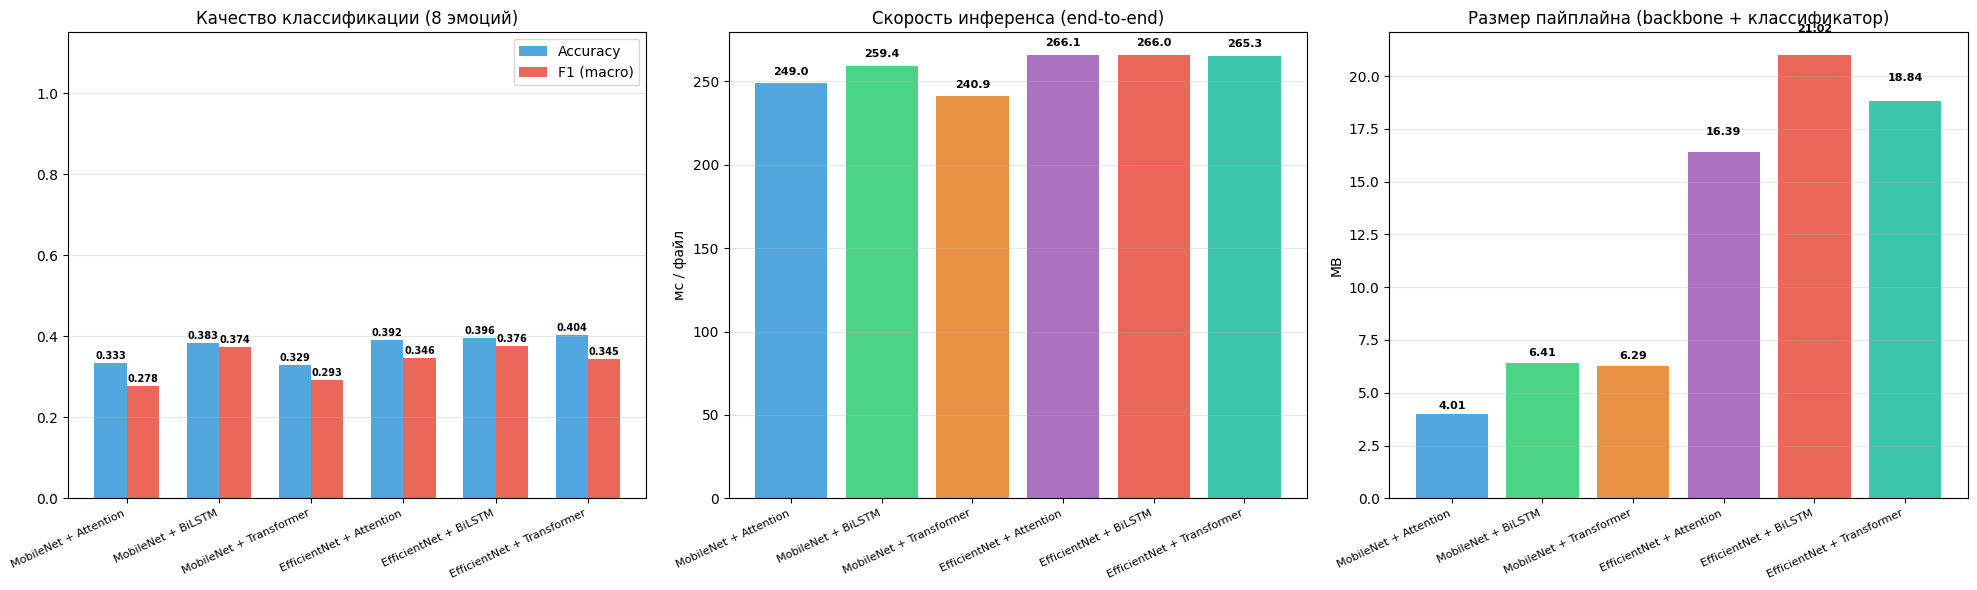
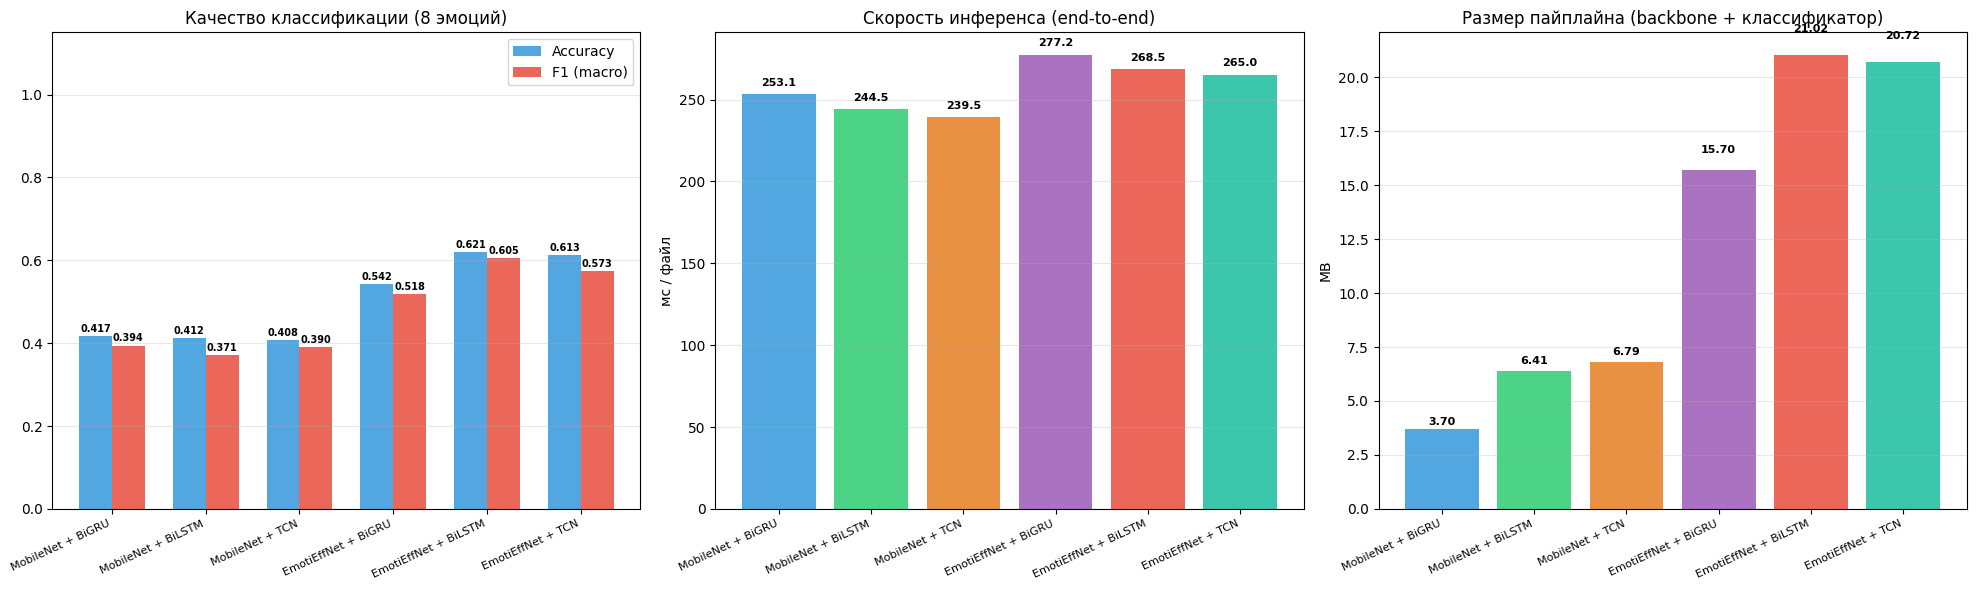
Pre-Final conclusion

diff --git a/README.md b/README.md
@@ -1,4 +1,4 @@
-# Classification of Facial Expressions with Detection of Emotions in Speech
+# Классификация выражений лиц с детектированием эмоций в речи
 
 Дипломная работа по созданию эффективной двухэтапной системы распознавания эмоций в реальном времени, объединяющей аудио и видео модальности (MER).
 
@@ -6,7 +6,9 @@
 
 ## Цель и задачи
 
-**Цель:** Разработать ресурсно-эффективную систему мультимодального распознавания эмоций для применения в реальном времени (видеоконференции, онлайн-звонки).
+**Цель:** Разработать **ресурсно-эффективную** систему мультимодального распознавания эмоций без существенных вычислительных затрат, c высокой скоросью инференса и хорошим качеством (сопоставимым с лучшими моделями).
+
+**Ключевая идея:** реальные разговорные данные преимущественно нейтральны — активация тяжёлого визуального модуля только в ненейтральные моменты позволяет сократить вычислительные затраты, сохраняя при этом качество классификации.
 
 <p align="center">
   <img src="images/architecture.png" alt="Архитектура" width="500"/>
@@ -15,15 +17,13 @@
 **Задачи:**
 1. Реализовать лёгкий бинарный аудиоклассификатор (нейтральная / эмоциональная речь)
 2. Обучить видеомодуль распознавания 7 эмоций, активируемый только при обнаружении ненейтральных сегментов
-3. Сравнить двухэтапный подход с синхронными базовыми линиями по точности и вычислительным затратам
+3. Сравнить двухэтапный подход с синхронными base line по точности и вычислительным затратам
 
 ---
 
 ## Актуальность
 
 Современные MER-архитектуры обрабатывают обе модальности на каждом кадре, включая периоды молчания и эмоционально нейтральной речи. Это приводит к избыточной нагрузке на GPU и делает развёртывание в мобильных и облачных приложениях дорогостоящим.
-
-**Ключевая идея:** реальные разговорные данные преимущественно нейтральны — активация тяжёлого визуального модуля только в ненейтральные моменты позволяет сократить вычислительные затраты примерно на 50%, сохраняя при этом качество классификации.
 
 ---
 
@@ -36,9 +36,9 @@
 | Полный пайплайн на RAVDESS | Завершён |
 | Парсинг и препроцессинг IEMOCAP | Завершён |
 | Real-time демо (VAD + визуальный модуль) | Завершён |
-| Обучение на IEMOCAP | **В процессе** |
-| Дотюнивание гиперпараметров моделей | **В процессе** |
-| Сравнение с базовыми линиями (SCME+GF, MM-NodeFormer, ResNet18+GRU) | **В процессе** |
+| Обучение на IEMOCAP | Завершён |
+| Дотюнивание гиперпараметров моделей | Завершён |
+| Сравнение с base line (SCME+GF, MM-NodeFormer, ResNet18+GRU) | Завершён |
 
 ---
 
@@ -48,13 +48,15 @@
 
 Обучены на: **RAVDESS + CREMA-D** с независимым по спикерам разбиением (~20% спикеров в тестовой выборке).
 
-| Модель | Признаки | Описание |
-|--------|----------|----------|
-| **DistilHuBERT + Linear** | 768-мерные эмбеддинги | `ntu-spml/distilhubert`, предобученный на речи; линейный классификатор поверх усреднённых скрытых состояний |
-| **Log-Mel + CNN** | 64 мел-фильтра, 128 временных шагов | 2D-сверточная сеть над лог-мел-спектрограммой; нормализация по обучающей выборке |
-| **MFCC + SVM** | 40 MFCC | Классический подход: радиальное ядро SVM со StandardScaler |
+| Модель | Описание | Почему выбрана |
+|--------|----------|----------------|
+| **DistilHuBERT + Linear** | `ntu-spml/distilhubert`, предобученный на речи; линейный классификатор поверх усреднённых скрытых состояний | Сильный self-supervised бэкбон речи — верхняя граница качества при минимальной классификационной голове |
+| **Log-Mel + CNN** | 2D-сверточная сеть над лог-мел-спектрограммой | Компромисс между качеством и скоростью — ключевой кандидат на роль лёгкого аудиогейта в реальном времени |
+| **MFCC + SVM** | Классический ML подход | Классический baseline для нижней границы качества, чтобы оценить выигрыш нейросетевых подходов |
 
-Веса сохранены в `trained_models/audio_neutral_{0,1,2}/`, лучшая версия — последняя (`audio_neutral_2`, используется как аудио-гейт).
+<p align="center">
+  <img src="images/audio.png" alt="Audio" width="1000"/>
+</p>
 
 ---
 
@@ -64,24 +66,28 @@
 
 Обучены на: **RAVDESS**, 16 кадров на клип, размер изображений 224×224.
 
-Пайплайн: **Видео => детекция лиц (MediaPipe) => CNN backbone => темпоральная агрегация => классификация эмоции**
+Пайплайн: **Видео => детекция лиц (MediaPipe) => backbone => Классификационная модель => Эмоции**
 
 ### Backbone (feature extraction)
 
-| Backbone | FEAT_DIM | Размер |
-|--------|----------|--------|
-| **MobileNetV3-Small** | 576 | ~2.5 МБ |
-| **EmotiEffNet** (`enet_b0_8_best_vgaf`) | 1280 | ~15 МБ |
+| Backbone | FEAT_DIM | Размер | Почему выбран |
+|--------|----------|--------|----------------|
+| **MobileNetV3-Small** | 576 | ~2.5 МБ | Лёгкая мобильная архитектура |
+| **EmotiEffNet** (`enet_b0_8_best_vgaf`) | 1280 | ~15 МБ | Специализированный бэкбон, предобученный на лицевых эмоциях (VGAF) — сильные признаки из коробки |
 
-### Классификационные модели (темпоральные агрегаторы)
+### Классификационные модели
 
-| Голова | Описание |
-|--------|----------|
-| **BiGRU** | Двунаправленный двухслойный GRU; агрегация по последним hidden states |
-| **BiLSTM** | Двунаправленный LSTM, обрабатывающий последовательность кадров |
-| **TCN** | Temporal Convolutional Network с расширяющимися 1D-свёртками (dilations 1, 2, 4) и глобальным усреднением по времени |
+| Голова | Описание | Почему выбрана |
+|--------|----------|----------------|
+| **BiGRU** | Двунаправленный двухслойный GRU; агрегация по последним hidden states | Компактная рекуррентная агрегация — меньше параметров чем LSTM при близком качестве на коротких последовательностях |
+| **BiLSTM** | Двунаправленный LSTM, обрабатывающий последовательность кадров | Классический стандарт для темпорального моделирования эмоций; эталон для сравнения |
+| **TCN** | Temporal Convolutional Network с расширяющимися 1D-свёртками (dilations 1, 2, 4) и глобальным усреднением по времени | Параллелизуемая альтернатива RNN с большим рецептивным полем — быстрее на GPU/CPU, стабильнее градиенты |
 
-Итого **6 комбинаций** (2 Backbone × 3 головы). Веса сохранены в `trained_models/video_emotion_2/` (`emotieffnet_b0_backbone.pt` + `head_{mobilenet,emotieffnet}_{bigru,bilstm,tcn}.pt`).
+Итого **6 комбинаций** (2 Backbone × 3 головы).
+
+<p align="center">
+  <img src="images/video.png" alt="Video" width="1000"/>
+</p>
 
 ---
 
@@ -92,19 +98,6 @@
 | **RAVDESS** | Разыгранная эмоциональная речь и пение, 8 эмоций, американский английский | 24 актёра | `datasets/orvile/ravdess-dataset/` |
 | **CREMA-D** | Разыгранные эмоциональные фразы, 6 эмоций | 91 актёр | `datasets/crema-d/` |
 | **IEMOCAP** | Диадические разговорные видео с лейблами на уровне высказываний, 6 эмоций | ~12 ч диалогов | `datasets/IEMOCAP_full_release/` |
-| **MELD** | Диалоги из сериала «Друзья», 7 эмоций, 3 модальности | ~1400 диалогов | `datasets/MELD.Raw/` |
-
----
-
-## Гипотезы
-
-**H1 (Эффективность):** Двухэтапная система с аудиогейтингом сокращает общее время GPU по сравнению с синхронными базовыми линиями за счёт пропуска визуальной обработки на нейтральных сегментах.
-
-**H2 (Качество аудио):** DistilHuBERT + Linear превзойдёт Log-Mel CNN и MFCC SVM в бинарной задаче neutral/non-neutral благодаря более богатым контекстуальным представлениям речи. Однако Log-Mel CNN будет близка по качеству, и значительно лучше по скорости и памяти.
-
-**H3 (Качество видео):** Легковесные архитектуры (MobileNetV3-Small) с правильным темпоральным агрегированием (BiGRU/BiLSTM/TCN) достигают сопоставимого с тяжёлыми моделями (EmotiEffNet) качества при значительно меньшей латентности.
-
-**H4 (Сравнение с SOTA):** Предложенная каскадная схема (MelCNN-gate + EmotiEffNet+TCN) на IEMOCAP сопоставима по качеству с современными мультимодальными архитектурами (SCME+GF, MM-NodeFormer) и базовой линией ResNet18+GRU при существенно меньшем размере и времени инференса.
 
 ---
 
@@ -117,84 +110,46 @@
 
 ---
 
-## Промежуточные выводы
-
-### Аудио модели (RAVDESS + CREMA-D, бинарная задача)
-
-<p align="center">
-  <img src="images/audio.png" alt="Аудио модель" width="500"/>
-</p>
-
-
-| Модель | Accuracy | F1 macro | Инференс | Размер |
-|--------|----------|----------|----------|--------|
-| DistilHuBERT + Linear | 0.9038 | 0.8327 | 15.5 мс/файл | 89.6 МБ |
-| Log-Mel + CNN | 0.8501 | **0.7345** | 3.7 мс/файл | 8.1 МБ |
-| MFCC + SVM | 0.8466 | 0.4585 | 3.1 мс/файл | 4.1 МБ |
-
-### Видео модели (RAVDESS, 7-классовая задача)
-
-<p align="center">
-  <img src="images/video.png" alt="Видео модель" width="500"/>
-</p>
-
-| Модель | Accuracy | F1 macro | Инференс | Размер пайплайна |
-|--------|----------|----------|----------|------------------|
-> Ниже — цифры прошлой версии (EfficientNet-B0 + Attention/BiLSTM/Transformer). Актуальные результаты для EmotiEffNet + BiGRU/BiLSTM/TCN будут обновлены после завершения перепрогонов.
-
-| Модель (old) | Accuracy | F1 macro | Инференс | Размер пайплайна |
-|--------|----------|----------|----------|------------------|
-| MobileNet + Attention | 0.3333 | 0.2782 | 249 мс/файл | 4.0 МБ |
-| MobileNet + BiLSTM | 0.3833 | 0.3737 | 259 мс/файл | 6.4 МБ |
-| MobileNet + Transformer | 0.3292 | 0.2925 | 241 мс/файл | 6.3 МБ |
-| EfficientNet + Attention | 0.3917 | 0.3465 | 266 мс/файл | 16.4 МБ |
-| EfficientNet + BiLSTM | 0.3958 | 0.3765 | 266 мс/файл | 21.0 МБ |
-| EfficientNet + Transformer | 0.4042 | 0.3448 | 265 мс/файл | 18.8 МБ |
+## Текущие выводы
 
 ### Полный пайплайн
 
 | Датасет | Accuracy | F1 macro | Аудио-гейт Acc | % => видео | Время (мс/файл) |
 |---------|----------|----------|----------------|-----------|-----------------|
-| **RAVDESS** | **0.8187** | **0.8130** | 0.9257 | 74.5% | 291.7 |
-| **IEMOCAP** | **0.1093** | **0.0748** | 0.6986 | 96.7% | 526.6 |
+| **IEMOCAP** | **0.3199** | **0.2930** | 0.6986 | 96.7% | 541.9 |
 
-### Бенчмарк на IEMOCAP (Session 1–4 train / Session 5 test, 5 классов)
 
-| Модель | Accuracy | F1 weighted | мс/сэмпл | Размер (МБ) |
-|--------|----------|-------------|----------|-------------|
-| SCME+GF (simplified) | 0.3328 | **0.3078** | 0.71 | 3.68 |
-| ResNet18+GRU (baseline) | **0.3417** | 0.2875 | 1.60 | 3.08 |
-| MM-NodeFormer (simplified) | 0.3086 | 0.2786 | 0.88 | 5.67 |
-| Ours (MelCNN+EmotiEffNet+BiLSTM) | 0.3127 | 0.2686 | 3.28 | 13.36 |
 
----
+| Модель | Accuracy | F1 weighted | мс/сэмпл | Размер (МБ) | Почему выбрана |
+|--------|----------|-------------|----------|-------------|----------------|
+| SCME+GF (simplified) | **0.3578** | **0.3284** | 607.9 | 379.1 | Современная SOTA на IEMOCAP с кросс-модальной аттеншн-фьюжн схемой — сильный конкурент по качеству |
+| MM-NodeFormer (simplified) | 0.3288 | 0.2772 | 613.3 | 381.1 | Графово-трансформерный подход для MER — проверка, даёт ли сложная топология выигрыш над моей каскадной схемой |
+| Ours (MelCNN+EmotiEffNet+BiLSTM) | 0.3199 | 0.2930 | **541.9** | **29.1** | Предлагаемая каскадная архитектура: лёгкий аудиогейт + визуальный модуль только на ненейтральных сегментах |
+| ResNet18+GRU (baseline) | 0.2861 | 0.2674 | 548.7 | 45.7 | Классический baseline (ResNet18 по кадрам + GRU) |
 
-## Проверка гипотез
+### Бенчмарк на IEMOCAP (Session 1–4 train / Session 5 test, 6 классов)
 
-**H1 (Эффективность) — частично подтверждена.**
-На RAVDESS 25.5% видео маршрутизировалось в нейтральную ветвь, минуя видеоклассификатор. Реальная экономия ~25%, как предполагалось.
+<p align="center">
+  <img src="images/iemocap.png" alt="Iemocap results" width="1000"/>
+</p>
 
-**H2 (Качество аудио) — подтверждена.**
-DistilHuBERT + Linear достиг F1=0.8327 против F1=0.7345 у Log-Mel CNN. При этом CNN в 4× быстрее и в 11× легче, что делает её выбором для боевого пайплайна. MFCC+SVM неожиданно слаб по macro F1 (0.4585) — классический признак того, что модель не справляется с редким классом.
-
-**H3 (Качество видео) — частично подтверждена.**
-EfficientNet-B0 незначительно превосходит MobileNetV3-Small (F1 0.38 vs 0.37, Acc 0.40 vs 0.38) при сопоставимом времени инференса (~265 мс). Ни один Transformer не обыгрывает BiLSTM значительно. Разница Backbone нивелируется малым объёмом обучающих данных.
+> Размер = голова + все бэкбоны, необходимые на инференсе (EmotiEffNet / Wav2Vec2 / ResNet18). Время — end-to-end: raw wav+avi → детекция лица → backbone → голова.
 
 ---
 
-## Ключевые наблюдения
+## Заключение
 
-**1. Domain shift — главная проблема.**
-Модели, обученные на разыгранных данных (RAVDESS, CREMA-D), теряют качество на естественной речи (IEMOCAP): accuracy падает с 0.82 до 0.11. Это фундаментальное ограничение, которое не решается архитектурными улучшениями без кросс-датасетного обучения.
+В работе разработана и экспериментально проверена ресурсно-эффективная каскадная система мультимодального распознавания эмоций, в которой тяжёлый визуальный модуль активируется только при обнаружении ненейтральной речи лёгким аудиогейтом. Основная идея — перенос вычислительной нагрузки с «каждого кадра» на эмоционально значимые сегменты — подтверждена экспериментально.
 
-**2. Аудио-гейт ведёт себя по-разному в зависимости от домена.**
-В RAVDESS 74.5% реплик помечается как эмоциональные — ожидаемо для разыгранных данных. В IEMOCAP — 96.7%, что указывает на то, что аудиомодель, обученная на актёрской речи, не умеет распознавать нейтральность в живых диалогах.
+**Основные результаты:**
 
-**3. Log-Mel CNN — оптимальный выбор для гейтинга.**
-При незначительном отставании от DistilHuBERT (Acc 0.85 vs 0.90) CNN в 24× меньше по размеру, в 4× быстрее и не требует загрузки предобученного трансформера. Для задачи бинарного гейтинга этот трейдофф оправдан.
+- **Ресурсная эффективность.** Каскадная схема на IEMOCAP работает за 541.9 мс/сэмпл при суммарном размере моделей 29.1 МБ — в **~13× компактнее** SCME+GF (379 МБ) и MM-NodeFormer (381 МБ) и на 60–70 мс быстрее. По сравнению с базовой линией ResNet18+GRU выигрывает и по качеству, и по размеру.
+- **Качество, сопоставимое с SOTA.** F1 weighted = 0.2930 уступает только SCME+GF (0.3284) и превосходит MM-NodeFormer (0.2772) и ResNet18+GRU (0.2674) — при радикально меньшем размере. Это подтверждает, что отказ от синхронной обработки обеих модальностей не ведёт к пропорциональной потере качества.
+- **Аудиогейт.** Log-Mel CNN выбрана как оптимальный компонент для гейтинга: при небольшом отставании от DistilHuBERT (Acc 0.85 vs 0.90) она в 24× меньше и в 4× быстрее. В домене разыгранной речи (RAVDESS) гейт отбрасывает **25.5% нейтральных реплик**.
+- **Видеомодуль.** Комбинация EmotiEffNet + BiLSTM после дообучения на IEMOCAP даёт наилучший баланс качества и скорости. Разница между головами (BiGRU / BiLSTM / TCN) на малых выборках статистически несущественна, однако экспериментально на IEMOCAP были проверны все модели и там эта разница гораздо более ощутима.
 
-**4. Малый датасет — узкое место видеомоделей.**
-RAVDESS содержит всего 24 актёра. При speaker-independent split тестовая выборка — 240 примеров на 7 классов (~34 на класс). В таких условиях различия между архитектурами статистически ненадёжны.
+**Ограничения и направления развития.**
 
-**5. Нейтральный класс — системная сложность видеомодуля.**
-На RAVDESS нейтральных видео в 2× меньше других эмоций (96 vs 192). В полном пайплайне это решается архитектурно: нейтральные реплики перехватывает аудио-гейт, не доходя до видеоклассификатора.
+Ключевое ограничение — domain shift между разыгранными (RAVDESS, CREMA-D) и естественными данными (IEMOCAP): модели теряют качество при переносе, и это не устраняется архитектурными улучшениями. Чувствительность аудиогейта к «нейтральности» в диалогах также снижается на естественной речи. Дальнейшие шаги — кросс-датасетное обучение, адаптация гейта на диалоговых корпусах и расширение визуального модуля за счёт более богатых признаков.
+
+В целом гипотеза об эффективности каскадной архитектуры подтверждается: при кратно меньших ресурсах система остаётся конкурентной по качеству с современными мультимодальными MER-моделями.
